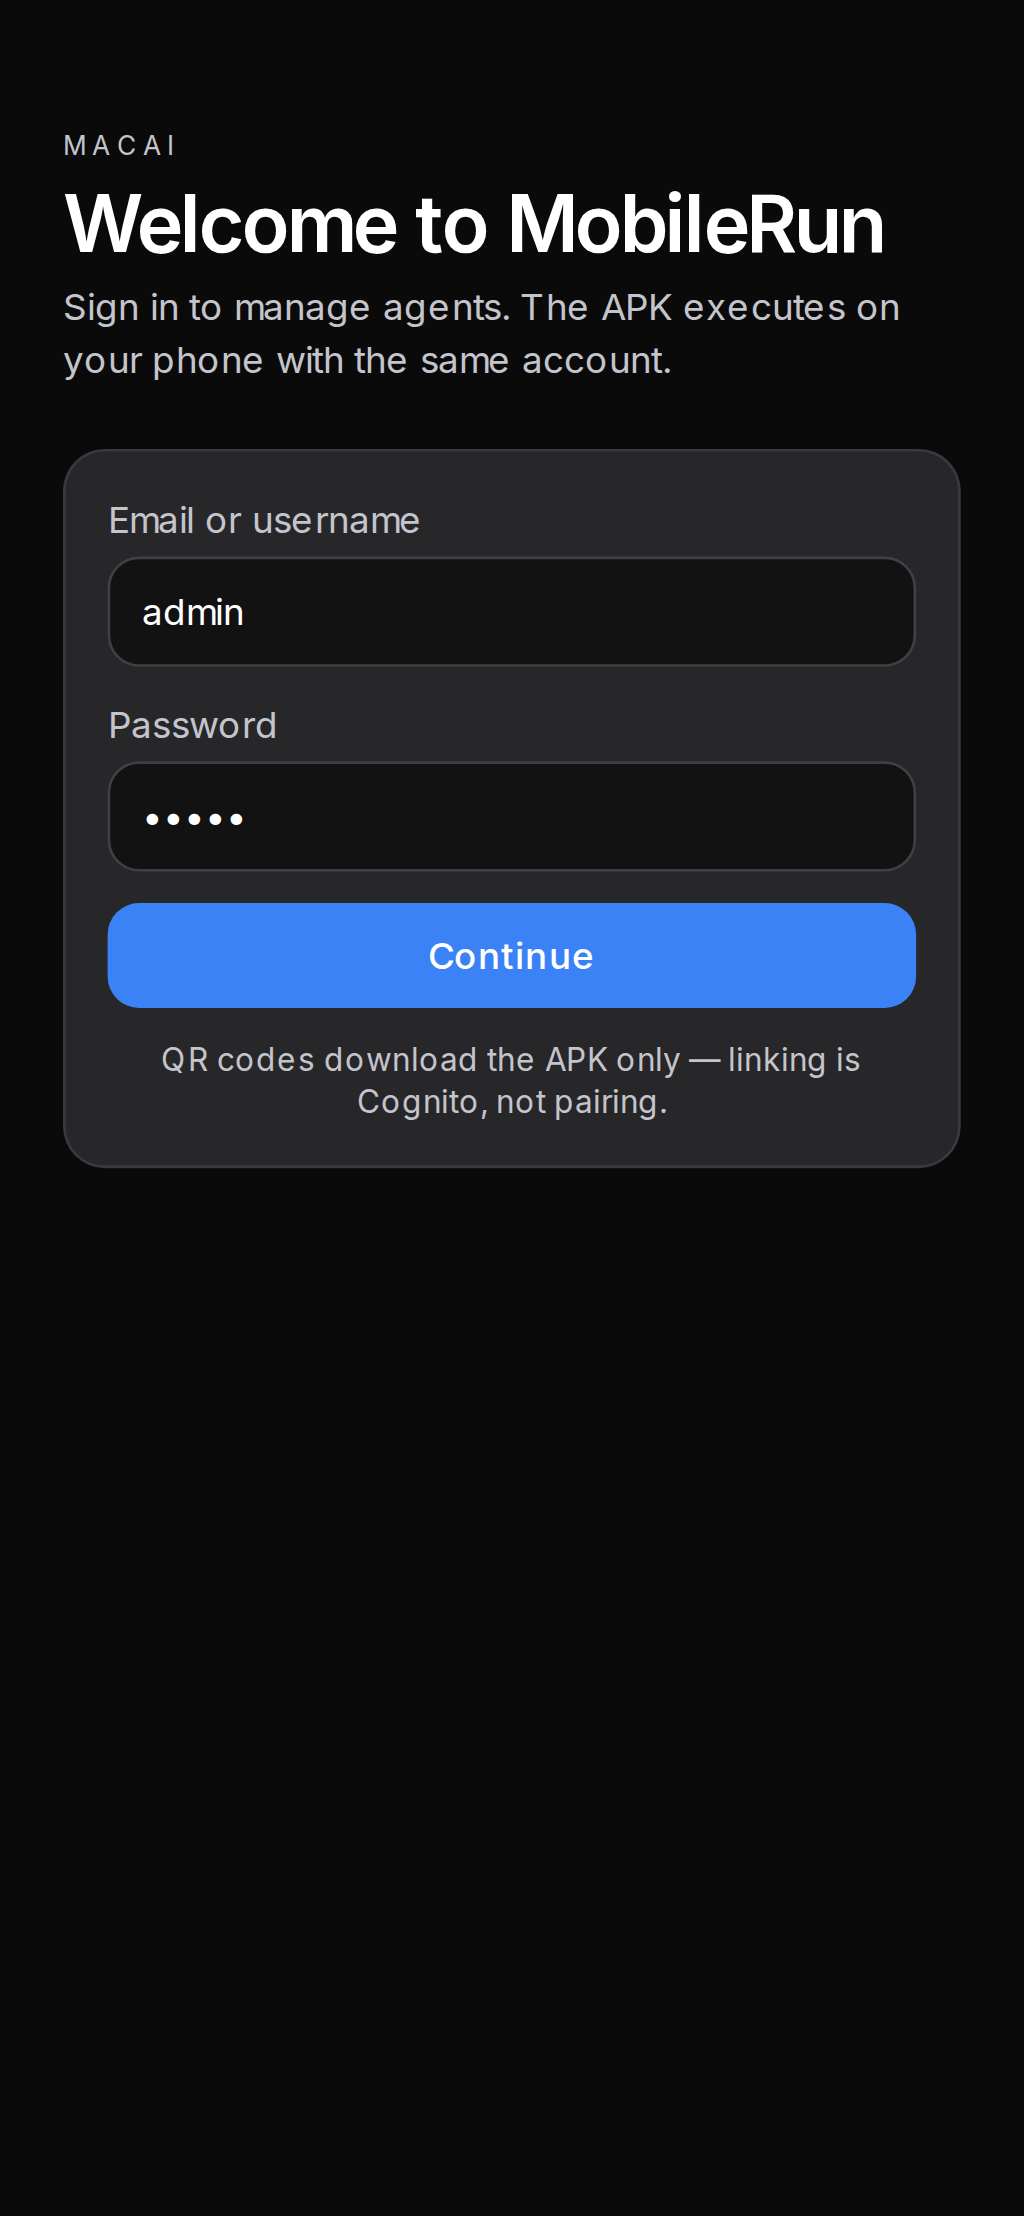
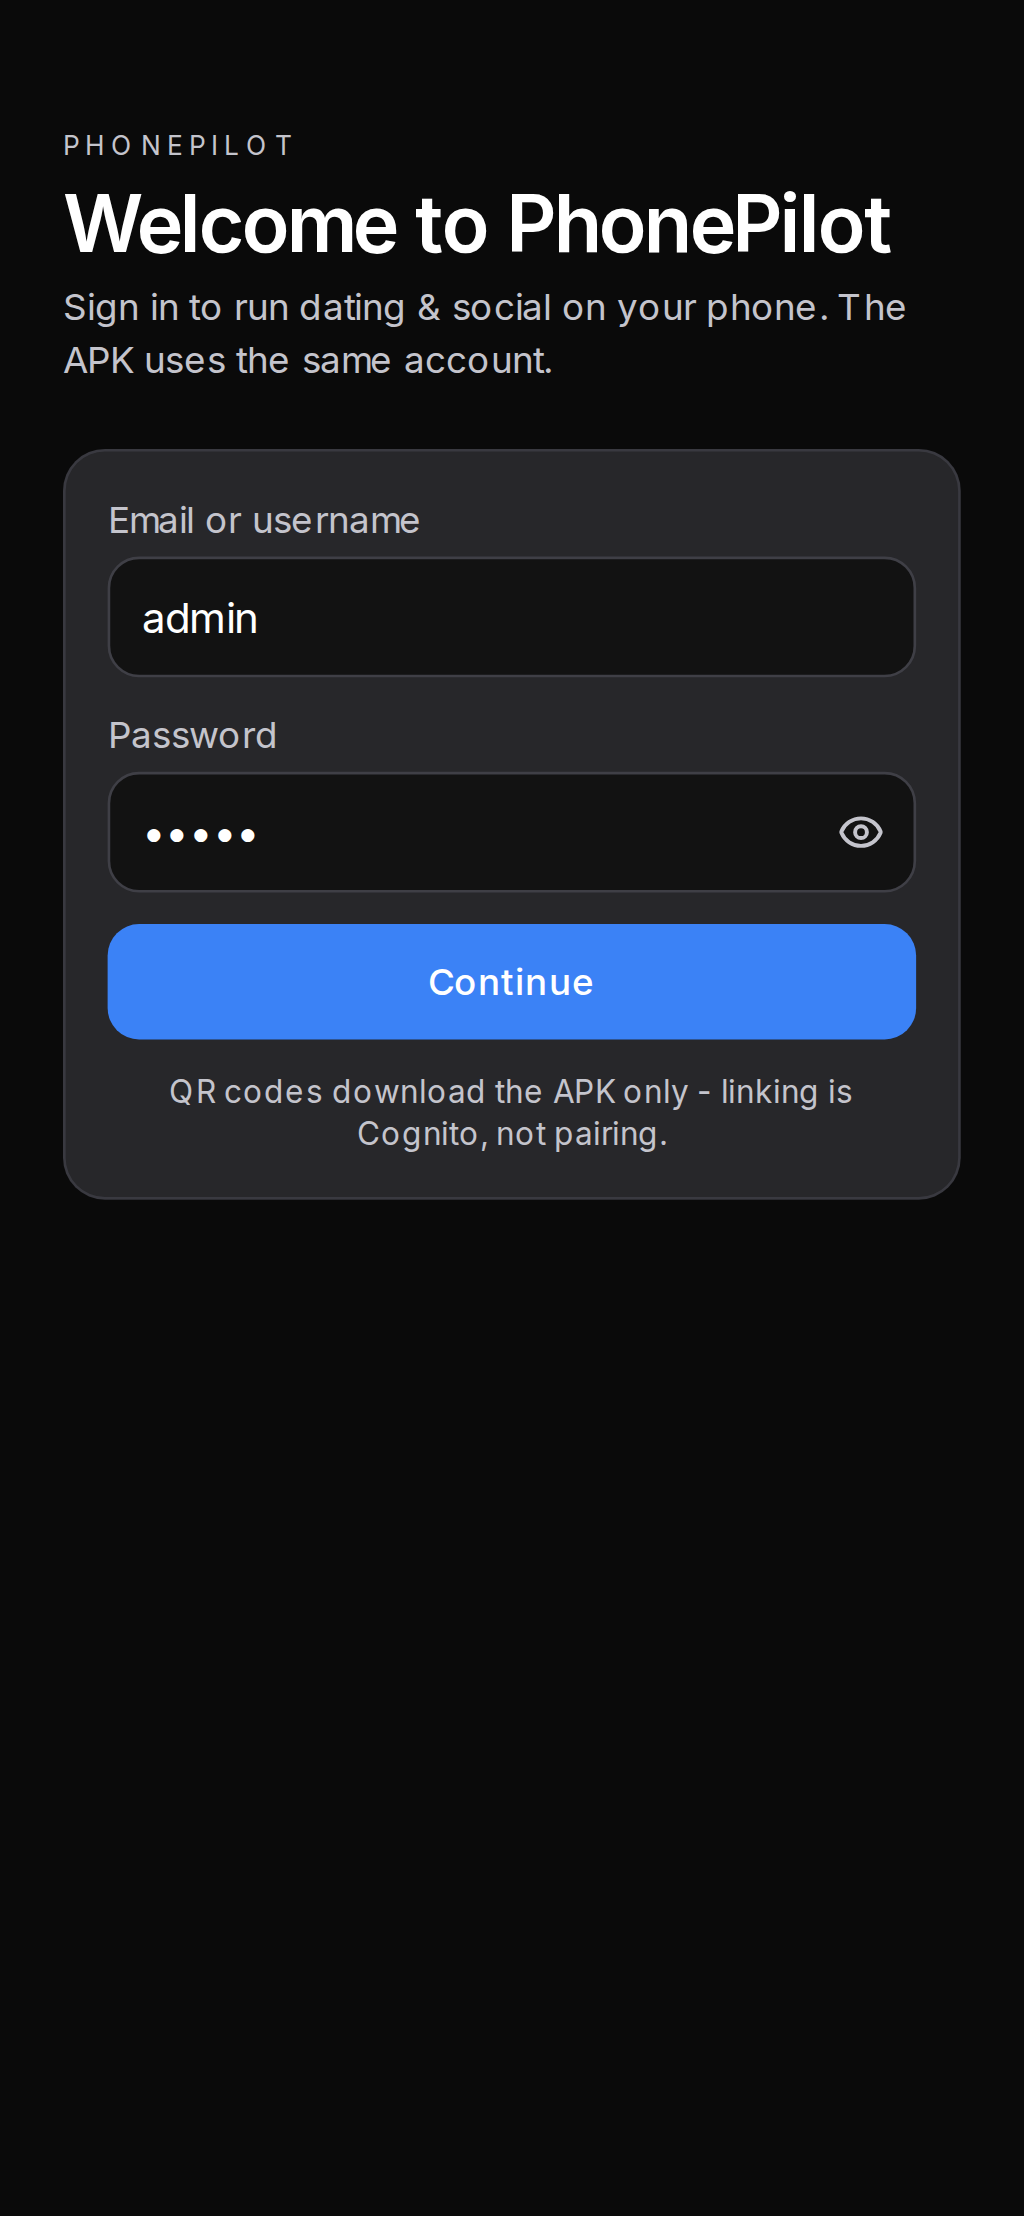
Rename user-facing branding to PhonePilot (#121)
* Rename user-facing branding from MacMobileRun to PhonePilot

Cosmetic-only: portal title/header/manifest/login/footer, Android
app_name/launcher label and visible notifications, and API messages
shown to users. Removes the home subtitle. Keeps packages, IDs,
intents, env vars, and AWS resources unchanged.

* chore: retrigger CI after flaky emulator-e2e

Push-triggered emulator-e2e hit a known WS pending race; PR run on the
same SHA passed. Empty commit to clear the failed check.

---------

Changed region(s): [[0.0625, 0.2491, 0.9375, 0.5605], [0.0625, 0.0623, 0.875, 0.1868], [0.0625, 0.0623, 0.1562, 0.0934]]

diff --git a/frontend/e2e/full-button-audit.spec.ts b/frontend/e2e/full-button-audit.spec.ts
@@ -58,11 +58,11 @@ async function loginViaUi(page: Page) {
   // Already logged in via storage?
   if (
     await page
-      .getByRole('heading', { name: /Your agents|MacMobileRun|MobileRun/i })
+      .getByRole('heading', { name: /Your agents|PhonePilot/i })
       .count()
   ) {
     const hasHome = await page
-      .getByRole('heading', { name: /Your agents|MacMobileRun/i })
+      .getByRole('heading', { name: /Your agents|PhonePilot/i })
       .count();
     if (hasHome) return;
   }
@@ -74,7 +74,7 @@ async function loginViaUi(page: Page) {
   });
   await page.getByRole('button', { name: /sign in|log in|continue/i }).click();
   await expect(
-    page.getByRole('heading', { name: /Your agents|Home|MacMobileRun|MobileRun/i }).first()
+    page.getByRole('heading', { name: /Your agents|Home|PhonePilot/i }).first()
   ).toBeVisible({
     timeout: 30000,
   });
@@ -196,7 +196,7 @@ test.describe('full button audit', () => {
     // ---------- Home ----------
     await page.goto('/');
     await expect(
-      page.getByRole('heading', { name: /Your agents|MacMobileRun|MobileRun/i }).first()
+      page.getByRole('heading', { name: /Your agents|PhonePilot/i }).first()
     ).toBeVisible({
       timeout: 30000,
     });

diff --git a/android-app/src/main/java/ai/mobilerun/selfhosted/MainActivity.kt b/android-app/src/main/java/ai/mobilerun/selfhosted/MainActivity.kt
@@ -338,7 +338,7 @@ fun MainScreen(
             horizontalAlignment = Alignment.CenterHorizontally,
             verticalArrangement = Arrangement.spacedBy(12.dp),
         ) {
-            Text(text = "MacMobileRun", style = MaterialTheme.typography.headlineLarge)
+            Text(text = "PhonePilot", style = MaterialTheme.typography.headlineLarge)
             Text(
                 text = "Executor · wireless · MacAI",
                 style = MaterialTheme.typography.bodyMedium,
@@ -459,7 +459,7 @@ fun MainScreen(
                             if (showRestricted) {
                                 AssistCard(
                                     title = "Allow restricted settings (Android 13+)",
-                                    body = "Sideloaded apps need this before Accessibility can turn on. Apps → MacMobileRun → ⋮ → Allow restricted settings.",
+                                    body = "Sideloaded apps need this before Accessibility can turn on. Apps → PhonePilot → ⋮ → Allow restricted settings.",
                                     actionLabel = "Open app settings",
                                     onClick = {
                                         onOpenRestrictedSettings()

diff --git a/frontend/src/pages/DevicesPage.tsx b/frontend/src/pages/DevicesPage.tsx
@@ -166,7 +166,7 @@ export default function DevicesPage() {
       window.location.href = https;
     }, 1200);
     setConnectHint(
-      'Opening MobileRun… If nothing happens, install the APK first, then tap again - or type the code in the app.',
+      'Opening PhonePilot… If nothing happens, install the APK first, then tap again - or type the code in the app.',
     );
   };
 
@@ -235,7 +235,7 @@ export default function DevicesPage() {
             <ExternalLink size={16} /> Connect this phone
           </button>
           <p className="text-xs text-mute">
-            Opens the MobileRun app with this pairing code (no camera needed).
+            Opens the PhonePilot app with this pairing code (no camera needed).
           </p>
           {connectHint && (
             <p className="text-xs text-amber-200" data-testid="connect-hint">
@@ -320,7 +320,7 @@ export default function DevicesPage() {
                   </button>
                 </div>
                 <p className="text-xs text-mute">
-                  No ambiguous characters - enter this code alone in MobileRun.
+                  No ambiguous characters - enter this code alone in PhonePilot.
                 </p>
               </div>
 

diff --git a/frontend/src/pages/LoginPage.tsx b/frontend/src/pages/LoginPage.tsx
@@ -17,8 +17,8 @@ export default function LoginPage() {
       <div className="flex items-center justify-center px-6 py-12">
         <div className="w-full max-w-sm space-y-6">
           <div className="space-y-1">
-            <p className="text-[10px] uppercase tracking-[0.22em] text-mute">MacMobileRun</p>
-            <h1 className="text-3xl font-semibold tracking-tight">Welcome to MacMobileRun</h1>
+            <p className="text-[10px] uppercase tracking-[0.22em] text-mute">PhonePilot</p>
+            <h1 className="text-3xl font-semibold tracking-tight">Welcome to PhonePilot</h1>
             <p className="text-sm text-mute">
               Sign in to run dating & social on your phone. The APK uses the same account.
             </p>
@@ -105,7 +105,7 @@ export default function LoginPage() {
           }}
         />
         <div className="relative">
-          <p className="text-[10px] uppercase tracking-[0.25em] text-mute">MacMobileRun</p>
+          <p className="text-[10px] uppercase tracking-[0.25em] text-mute">PhonePilot</p>
         </div>
         <div className="relative space-y-4">
           <p className="font-mono text-3xl font-semibold uppercase leading-tight tracking-wide text-white">

diff --git a/frontend/src/App.tsx b/frontend/src/App.tsx
@@ -136,10 +136,7 @@ function Shell() {
             data-testid="desktop-sidebar"
           >
             <Link to="/" className="mb-8 block px-2 hover:opacity-90">
-              <p className="text-lg font-semibold tracking-tight">MacMobileRun</p>
-              <p className="text-[10px] uppercase tracking-[0.22em] text-mute">
-                Dating & social
-              </p>
+              <p className="text-lg font-semibold tracking-tight">PhonePilot</p>
             </Link>
             <nav className="space-y-0.5">
               {tabs.map((t) => (
@@ -177,10 +174,7 @@ function Shell() {
             <header className="sticky top-0 z-30 flex items-center justify-between gap-3 border-b border-line bg-canvas/95 px-4 py-2 backdrop-blur md:hidden pt-[max(0.5rem,env(safe-area-inset-top))]">
               <Link to="/" className="min-w-0">
                 <p className="truncate text-base font-semibold tracking-tight">
-                  MacMobileRun
-                </p>
-                <p className="text-[10px] uppercase tracking-[0.18em] text-mute">
-                  Dating & social
+                  PhonePilot
                 </p>
               </Link>
               <button

diff --git a/android-app/src/main/java/ai/mobilerun/selfhosted/BackendClient.kt b/android-app/src/main/java/ai/mobilerun/selfhosted/BackendClient.kt
@@ -1121,7 +1121,7 @@ class BackendClient(private val context: Context) {
                                 )
                             val notif =
                                 android.app.Notification.Builder(context, channelId)
-                                    .setContentTitle("MacMobileRun update ${release.tag}")
+                                    .setContentTitle("PhonePilot update ${release.tag}")
                                     .setContentText("Tap to install v${release.versionName}")
                                     .setSmallIcon(R.drawable.ic_stat_mobilerun)
                                     .setContentIntent(pi)
@@ -2166,7 +2166,7 @@ class BackendClient(private val context: Context) {
                     )
                 }
                 val notif = android.app.Notification.Builder(context, channelId)
-                    .setContentTitle("MacMobileRun")
+                    .setContentTitle("PhonePilot")
                     .setContentText("Opening requested screen…")
                     .setSmallIcon(R.drawable.ic_stat_mobilerun)
                     .setContentIntent(pi)

diff --git a/frontend/src/pages/PairPage.tsx b/frontend/src/pages/PairPage.tsx
@@ -39,10 +39,10 @@ export default function PairPage() {
 
   return (
     <div className="mx-auto flex min-h-screen max-w-lg flex-col justify-center gap-4 p-6">
-      <h1 className="text-2xl font-semibold">Connect MacMobileRun</h1>
+      <h1 className="text-2xl font-semibold">Connect PhonePilot</h1>
       <Card className="space-y-3">
         <p className="text-sm text-mute">
-          Opening the MacMobileRun app… If nothing happens, install the APK from{' '}
+          Opening the PhonePilot app… If nothing happens, install the APK from{' '}
           <Link to="/devices" className="text-accent">
             Devices
           </Link>
@@ -55,7 +55,7 @@ export default function PairPage() {
         )}
         {deepLink && (
           <a href={deepLink} className="inline-block text-sm text-accent break-all">
-            Open in MacMobileRun app
+            Open in PhonePilot app
           </a>
         )}
         {!code && (

diff --git a/frontend/e2e/smoke.spec.ts b/frontend/e2e/smoke.spec.ts
@@ -16,7 +16,7 @@ async function shot(page: import('@playwright/test').Page, name: string) {
 
 test('login screen', async ({ page }) => {
   await page.goto('/');
-  await expect(page.getByRole('heading', { name: /MacMobileRun/i })).toBeVisible();
+  await expect(page.getByRole('heading', { name: /PhonePilot/i })).toBeVisible();
   await shot(page, '01-login');
 });
 
@@ -26,7 +26,7 @@ test('authenticated routes', async ({ page }) => {
     localStorage.setItem('mobilerun_user_email', 'mac@macai.local');
   });
   await page.goto('/');
-  await expect(page.getByRole('heading', { name: /MacMobileRun/i })).toBeVisible({
+  await expect(page.getByRole('heading', { name: /PhonePilot/i })).toBeVisible({
     timeout: 15000,
   });
   // Home has nav tiles (no sidebar/bottom nav). Settings is avatar / bottom nav only.

diff --git a/android-app/src/main/java/ai/mobilerun/selfhosted/ConnectionService.kt b/android-app/src/main/java/ai/mobilerun/selfhosted/ConnectionService.kt
@@ -235,7 +235,7 @@ class ConnectionService : Service() {
         nm.createNotificationChannel(
             NotificationChannel(
                 CHANNEL_ID,
-                "MacMobileRun connection",
+                "PhonePilot connection",
                 NotificationManager.IMPORTANCE_LOW,
             ),
         )
@@ -261,9 +261,9 @@ class ConnectionService : Service() {
             PendingIntent.FLAG_UPDATE_CURRENT or PendingIntent.FLAG_IMMUTABLE,
         )
         val title = if (status == "Connected") {
-            "MacMobileRun connected"
+            "PhonePilot connected"
         } else {
-            "MacMobileRun · $status"
+            "PhonePilot · $status"
         }
         return NotificationCompat.Builder(this, CHANNEL_ID)
             .setContentTitle(title)

diff --git a/frontend/index.html b/frontend/index.html
@@ -7,7 +7,12 @@
     <link rel="apple-touch-icon" href="/apple-touch-icon.png" />
     <meta name="viewport" content="width=device-width, initial-scale=1.0, viewport-fit=cover" />
     <meta name="theme-color" content="#0A0A0A" />
-    <title>MacMobileRun</title>
+    <meta name="application-name" content="PhonePilot" />
+    <meta name="apple-mobile-web-app-title" content="PhonePilot" />
+    <meta name="apple-mobile-web-app-capable" content="yes" />
+    <meta name="description" content="Run tasks on your phone from the web." />
+    <link rel="manifest" href="/manifest.webmanifest" />
+    <title>PhonePilot</title>
   </head>
   <body class="bg-canvas text-white">
     <div id="root"></div>

diff --git a/frontend/src/pages/HomePage.tsx b/frontend/src/pages/HomePage.tsx
@@ -109,8 +109,7 @@ export default function HomePage() {
     <div className="mr-page space-y-6" data-testid="home-page">
       <header className="flex items-center justify-between">
         <div>
-          <h1 className="text-2xl font-semibold tracking-tight">MacMobileRun</h1>
-          <p className="text-sm text-mute">Dating & social on your phone</p>
+          <h1 className="text-2xl font-semibold tracking-tight">PhonePilot</h1>
         </div>
         <Link
           to="/settings"

diff --git a/frontend/src/pages/DatingPage.tsx b/frontend/src/pages/DatingPage.tsx
@@ -688,7 +688,7 @@ export default function DatingPage() {
             <Heart className="text-rose-400 shrink-0" /> Dating
           </h1>
           <p className="text-mute mt-1 text-sm sm:text-base">
-            MacMobileRun · app selection, openers, start/stop, activity
+            PhonePilot · app selection, openers, start/stop, activity
           </p>
           <p className="text-mute mt-1 text-sm">
             Covers new contacts, existing chats, or both - dating here,{' '}
